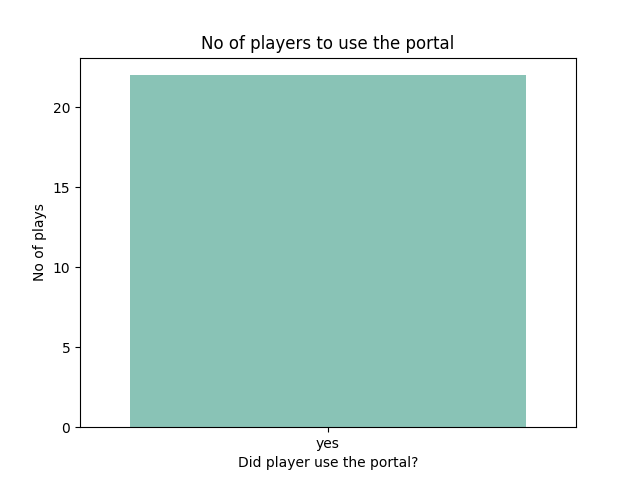
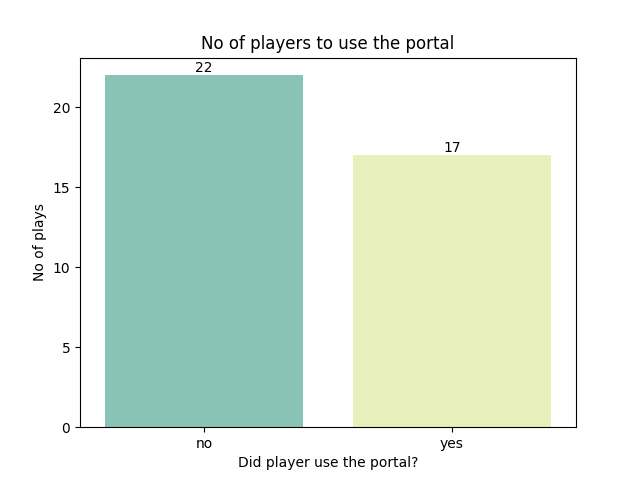
Update portal use graph

diff --git a/analytics/analytics.py b/analytics/analytics.py
@@ -8,19 +8,30 @@ import numpy as np
 local_path = '/Users/munseonghun/Downloads/'
 did_finish_df = pd.read_csv(local_path + 'enemy_kills.csv')
 portal_use_df = pd.read_csv(local_path + 'Portal_Use.csv')
+did_finish_df.drop('Timestamp', axis=1, inplace=True)
+portal_use_df.drop('Timestamp', axis=1, inplace=True)
 
-
-sns.countplot(x ='did_finish', data = did_finish_df, palette= ["#7fcdbb", "#edf8b1"])
+# Metric 1: Did user finish level
+ax = sns.countplot(x ='did_finish', data = did_finish_df, palette= ["#7fcdbb", "#edf8b1"])
 plt.xlabel('Did player finish?') 
 plt.ylabel('No of plays') 
 plt.title('No of players to finish the level - T or F')
+plt.bar_label(ax.containers[0])
 plt.savefig(local_path + 'did_finish_chart.png')
+plt.close()
 
-sns.countplot(x ='portal_used', data = portal_use_df, palette= ["#7fcdbb", "#edf8b1"])
+# Metric 2: Did user use a portal
+portal_use_merge = pd.merge(did_finish_df, portal_use_df, on='sessionID', how="outer")
+portal_use_merge.drop_duplicates(inplace=True, ignore_index=True)
+portal_use_merge['portal_used'] = portal_use_merge['portal_used'].apply(lambda x: "no" if pd.isnull(x) else "yes")
+
+ax = sns.countplot(x ='portal_used', data = portal_use_merge, palette= ["#7fcdbb", "#edf8b1"])
 plt.xlabel('Did player use the portal?') 
 plt.ylabel('No of plays') 
 plt.title('No of players to use the portal')
+plt.bar_label(ax.containers[0])
 plt.savefig(local_path + 'portal_use_chart.png')
+plt.close()
 
 # Load using Google Forms
 """
